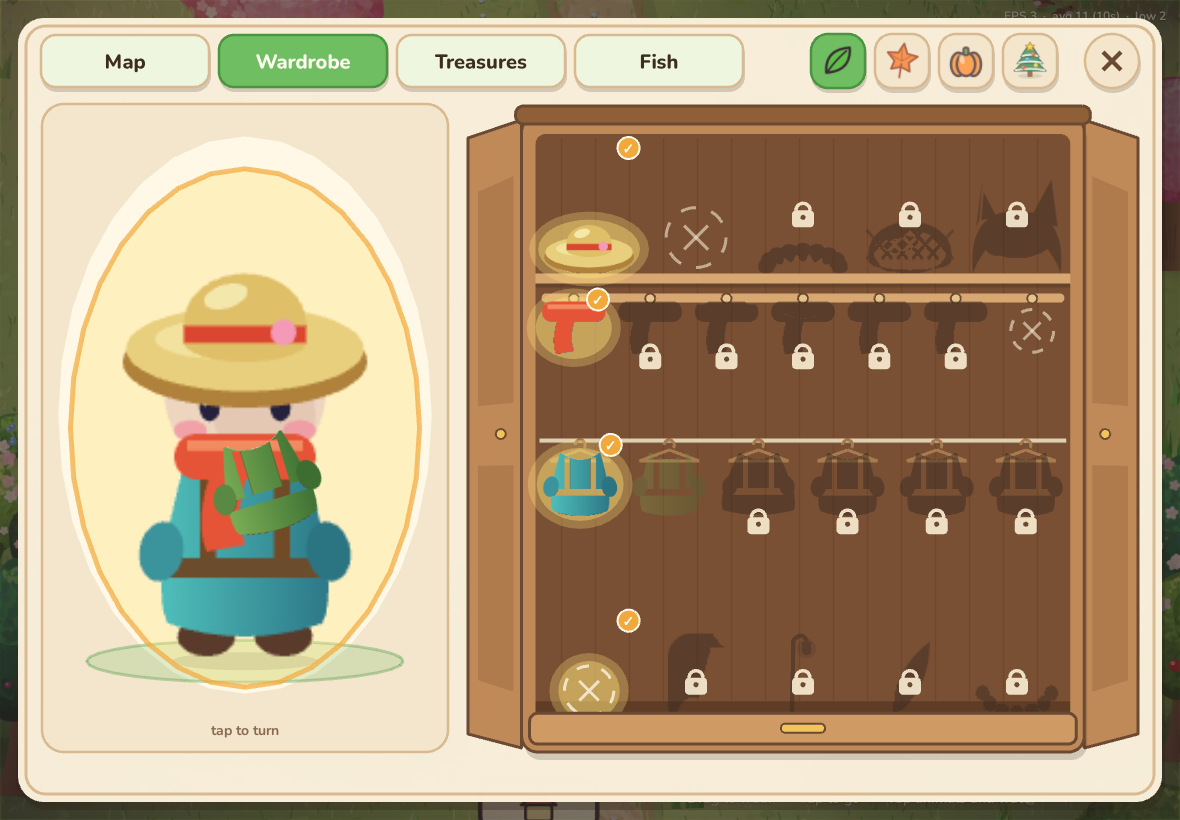
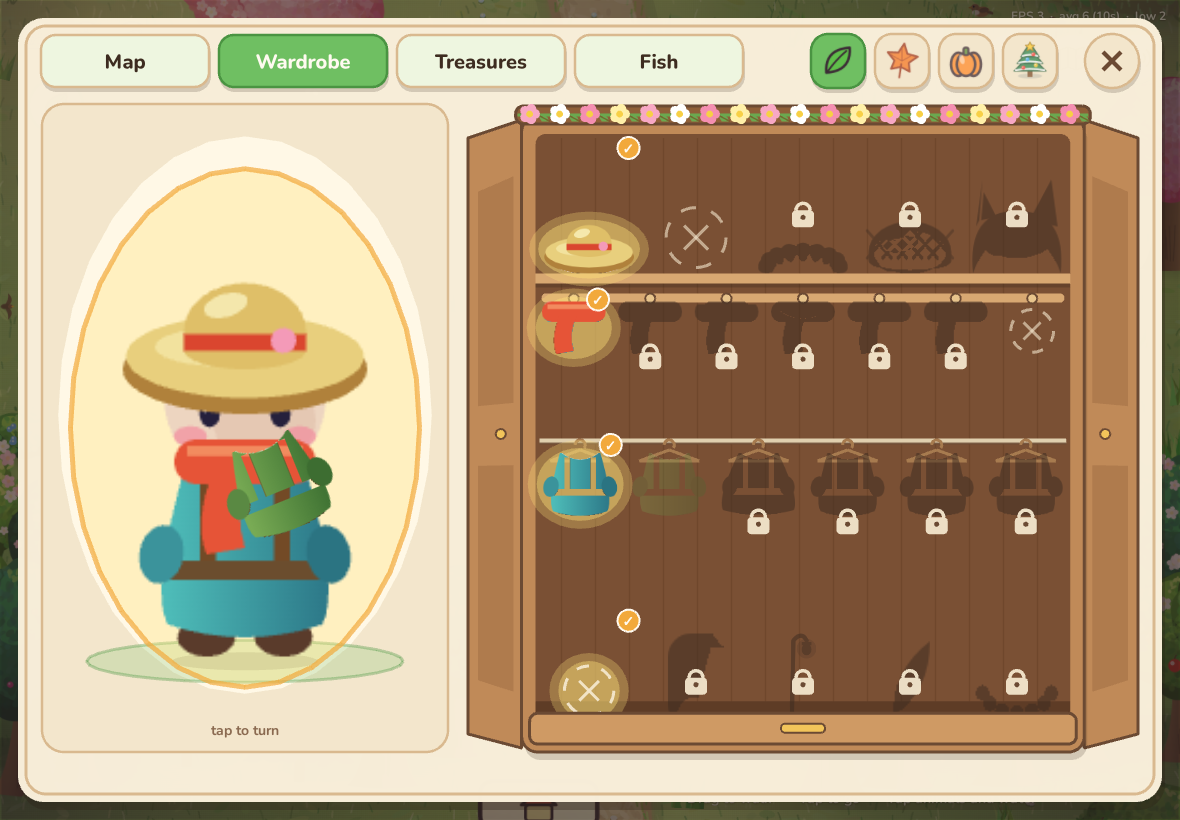
Wardrobe slice 4: new-item glow + seasonal wardrobe decorations, What's new

diff --git a/src/scenes/Menu.ts b/src/scenes/Menu.ts
@@ -18,6 +18,8 @@ const FONT = 'Nunito';
 export type Tab = 'map' | 'wardrobe' | 'treasures' | 'fish';
 const TABS: [Tab, string][] = [['map', 'Map'], ['wardrobe', 'Wardrobe'], ['treasures', 'Treasures'], ['fish', 'Fish']];
 
+const iw0 = (ww: number) => ww - 28;
+
 export class MenuScene extends Phaser.Scene {
   root!: Phaser.GameObjects.Container;
   content!: Phaser.GameObjects.Container;
@@ -39,6 +41,10 @@ export class MenuScene extends Phaser.Scene {
   private heroBase = 1;
   /** Last reaction played, for tests: 'hat' | 'scarf' | 'outfit' | 'extras' | 'off'. */
   lastReaction = '';
+  /** 9.36 slice 4: items unlocked since your last look in the wardrobe (they glow "new" this visit). */
+  newIds: Set<string> | null = null;
+  /** The theme the wardrobe was last dressed for (for tests). */
+  wardrobeTheme = '';
   private reactChain: Phaser.Tweens.TweenChain | null = null;
   playerDot: Phaser.GameObjects.Graphics | null = null;
   mapGeom = { x: 0, y: 0, s: 1 };
@@ -80,6 +86,7 @@ export class MenuScene extends Phaser.Scene {
   close() {
     if (!this.open) return;
     this.open = false;
+    this.newIds = null;
     sfx.blip();
     this.tweens.add({ targets: this.root, alpha: 0, duration: 160, onComplete: () => { this.root.setVisible(false); this.root.removeAll(true); } });
     // Release on a later frame so the closing tap doesn't reach the world.
@@ -102,6 +109,7 @@ export class MenuScene extends Phaser.Scene {
     this.rects = {};
     this.root.removeAll(true);
     this.cancelDrag();
+    if (this.tab !== 'wardrobe') this.newIds = null;
     this.heroImg = null; this.playerDot = null; this.hintText = null; this.stageGlow = null;
     this.w = this.scale.width / DPR; this.h = this.scale.height / DPR;
     const si = safeInsets();
@@ -246,6 +254,14 @@ export class MenuScene extends Phaser.Scene {
    *  hats on the shelf, scarves on hooks, outfits on hangers, extras in the drawer. Tap an item to wear it. */
   renderWardrobe(a: { x: number; y: number; w: number; h: number }) {
     buildWardrobeItems(this, 'wardrobe-items');
+    if (!this.newIds) {
+      // Anything unlocked since last time is "new" for this visit; first visit ever: nothing is new.
+      const unlocked = COSMETICS.filter((c) => isUnlocked(c)).map((c) => c.id);
+      const seen = save.seenWardrobe;
+      this.newIds = new Set(seen ? unlocked.filter((id) => !seen.includes(id)) : []);
+      save.seenWardrobe = unlocked;
+      persist();
+    }
     const narrow = a.w < 860;
     const ph = a.h - 30;
     const pw = Math.round(a.w * (narrow ? 0.34 : 0.37));
@@ -316,6 +332,7 @@ export class MenuScene extends Phaser.Scene {
     g.lineStyle(1.5, 0x6a4329, 0.7);
     for (let px = ix + 26; px < ix + iw - 10; px += 34) g.lineBetween(px, iy + 4, px, iy + ih - 4);
     this.content.add(g);
+    this.dressWardrobe(wx, wy, ww, ix, iy);
 
     type Row = { slot: string; list: Cosmetic[]; h: number };
     const rows: Row[] = [
@@ -363,6 +380,7 @@ export class MenuScene extends Phaser.Scene {
 
   /** Put it on (or, for the on/off extras, toggle it), save, and let the hero show it off. */
   private wear(c: Cosmetic) {
+    this.newIds?.delete(c.id);
     equip(c, save.look);
     persist();
     sfx.pickup();
@@ -499,6 +517,67 @@ export class MenuScene extends Phaser.Scene {
     this.itemImgs = {};
   }
 
+  /** Seasonal touches on the wardrobe for the active theme. */
+  private dressWardrobe(wx: number, wy: number, ww: number, ix: number, iy: number) {
+    const t = theme.id; this.wardrobeTheme = t;
+    const g = this.add.graphics();
+    const LINE = 0x6b4a33;
+    const flower = (x: number, y: number, r: number, c: number) => {
+      g.fillStyle(c, 1); for (let k = 0; k < 5; k++) { const a = (k / 5) * Math.PI * 2; g.fillCircle(x + Math.cos(a) * r * 0.6, y + Math.sin(a) * r * 0.6, r * 0.55); }
+      g.fillStyle(0xf7d046, 1); g.fillCircle(x, y, r * 0.38);
+    };
+    const leaf = (x: number, y: number, r: number, c: number, rot: number) => {
+      const ca = Math.cos(rot), sa = Math.sin(rot), P = (u: number, v: number) => [x + u * ca - v * sa, y + u * sa + v * ca] as const;
+      const [ax, ay] = P(-r, 0), [bx, by] = P(0, -r * 0.55), [cx2, cy2] = P(r, 0), [dx, dy] = P(0, r * 0.55);
+      g.fillStyle(c, 1); g.fillTriangle(ax, ay, bx, by, cx2, cy2); g.fillTriangle(ax, ay, dx, dy, cx2, cy2);
+      g.lineStyle(1.5, 0x7a3b1c, 0.6); g.lineBetween(ax, ay, cx2, cy2);
+    };
+    if (t === 'spring') {
+      // A flower garland along the crown.
+      g.lineStyle(3, 0x6aa84f, 1); g.lineBetween(wx - 4, wy - 1, wx + ww + 4, wy - 1);
+      const cols = [0xf7a8c4, 0xffffff, 0xf48fb1, 0xfff0a8];
+      let i = 0; for (let x = wx + 8; x < wx + ww - 4; x += 30, i++) { leaf(x + 14, wy + 2, 7, 0x6aa84f, 0.5); flower(x, wy - 2, 9, cols[i % cols.length]); }
+    } else if (t === 'fall') {
+      const cols = [0xe0701e, 0xc8452b, 0xe8b13a, 0xa8551e];
+      let i = 0; for (let x = wx + 6; x < wx + ww; x += 22, i++) leaf(x, wy - 2 + (i % 2) * 4, 11, cols[i % cols.length], (i % 3 - 1) * 0.6);
+      // Two leaves drifting down the doors.
+      leaf(wx - 22, wy + 120, 10, 0xe0701e, 0.9); leaf(wx + ww + 24, wy + 220, 10, 0xc8452b, -0.7);
+      g.fillStyle(0x8f5f38, 1); g.fillEllipse(wx + 40, wy - 16, 16, 18); g.fillStyle(0x5e3c26, 1); g.fillEllipse(wx + 40, wy - 23, 20, 9);
+    } else if (t === 'halloween') {
+      // A cobweb in the corner and a pumpkin on top.
+      const cx = ix + 2, cy = iy + 2, R = 64;
+      g.lineStyle(1.5, 0xf3ecdf, 0.65);
+      for (let k = 0; k <= 4; k++) { const a = (k / 4) * (Math.PI / 2); g.lineBetween(cx, cy, cx + Math.cos(a) * R, cy + Math.sin(a) * R); }
+      for (const rr of [18, 34, 50]) { g.beginPath(); for (let k = 0; k <= 4; k++) { const a = (k / 4) * (Math.PI / 2); const px = cx + Math.cos(a) * rr, py = cy + Math.sin(a) * rr; if (k) g.lineTo(px, py); else g.moveTo(px, py); } g.strokePath(); }
+      const px = wx + 84, py = wy - 14;
+      g.fillStyle(0xe8771e, 1); g.fillEllipse(px - 8, py, 18, 22); g.fillEllipse(px + 8, py, 18, 22); g.fillEllipse(px, py, 20, 24);
+      g.lineStyle(2, LINE, 1); g.strokeEllipse(px, py, 34, 24);
+      g.fillStyle(0x2a1d14, 1); g.fillTriangle(px - 9, py - 3, px - 3, py - 3, px - 6, py - 8); g.fillTriangle(px + 3, py - 3, px + 9, py - 3, px + 6, py - 8);
+      g.fillTriangle(px - 8, py + 3, px + 8, py + 3, px, py + 8);
+      g.fillStyle(0x4f7a2a, 1); g.fillRect(px - 2, py - 16, 4, 6);
+      // A little bat on the left of the crown.
+      const bx = wx + 34, by = wy - 18;
+      g.fillStyle(0x3b2b4f, 1); g.fillEllipse(bx, by, 12, 10);
+      g.fillTriangle(bx - 4, by, bx - 20, by - 7, bx - 14, by + 5); g.fillTriangle(bx + 4, by, bx + 20, by - 7, bx + 14, by + 5);
+    } else if (t === 'christmas') {
+      // Snow on the crown, a drooping string of lights, and a star on top.
+      g.fillStyle(0xffffff, 1); g.fillRoundedRect(wx - 8, wy - 16, ww + 16, 10, 5);
+      for (let x = wx + 10; x < wx + ww - 6; x += 38) g.fillEllipse(x, wy - 6, 14, 10);
+      const n = Math.max(4, Math.floor(ww / 70)), cols = [0xe53935, 0xfbc02d, 0x43a047, 0x1e88e5];
+      g.lineStyle(2, 0x2e5e2e, 1);
+      for (let k = 0; k < n; k++) {
+        const x0 = ix + (iw0(ww) * k) / n, x1 = ix + (iw0(ww) * (k + 1)) / n;
+        g.beginPath(); for (let u = 0; u <= 8; u++) { const x = x0 + ((x1 - x0) * u) / 8, y = iy + 4 + Math.sin((u / 8) * Math.PI) * 14; if (u) g.lineTo(x, y); else g.moveTo(x, y); } g.strokePath();
+        for (let u = 1; u < 4; u++) { const x = x0 + ((x1 - x0) * u) / 4, y = iy + 4 + Math.sin((u / 4) * Math.PI) * 14; g.fillStyle(cols[(k * 3 + u) % 4], 1); g.fillEllipse(x, y + 5, 7, 10); }
+      }
+      const sx = wx + ww / 2, sy = wy - 24;
+      g.fillStyle(0xf7d046, 1); g.lineStyle(2, 0xc9822a, 1); g.beginPath();
+      for (let k = 0; k < 10; k++) { const a = -Math.PI / 2 + (k * Math.PI) / 5, rr = k % 2 ? 6 : 14; const x = sx + Math.cos(a) * rr, y = sy + Math.sin(a) * rr; if (k) g.lineTo(x, y); else g.moveTo(x, y); }
+      g.closePath(); g.fillPath(); g.strokePath();
+    }
+    this.content.add(g);
+  }
+
   /** One item in its place in the wardrobe; the whole cell is the tap target. */
   private wardrobeItem(c: Cosmetic, slot: string, x: number, y: number, w: number, h: number) {
     const unlocked = isUnlocked(c);
@@ -516,6 +595,16 @@ export class MenuScene extends Phaser.Scene {
       glow.fillStyle(0xffe27a, 0.28); glow.fillEllipse(gx, gy, gw + 30, gh + 26);
       glow.fillStyle(0xffe27a, 0.4); glow.fillEllipse(gx, gy, gw + 12, gh + 10);
     };
+    // Newly unlocked: a gentle pulsing glow and a little "new" tag (this visit only).
+    if (unlocked && !on && this.newIds?.has(c.id)) {
+      const ng = this.add.graphics();
+      ng.fillStyle(0xfff2a8, 0.5); ng.fillEllipse(cx, originY ? anchorY - maxH * 0.42 : anchorY + maxH * 0.42, w * 0.95, maxH * 0.95);
+      this.content.add(ng);
+      this.tweens.add({ targets: ng, alpha: { from: 0.35, to: 1 }, duration: 700, yoyo: true, repeat: -1, ease: 'Sine.easeInOut' });
+      const tg = this.add.graphics();
+      tg.fillStyle(0xe85d3a, 1); tg.fillRoundedRect(x + 4, y + 4, 40, 18, 9);
+      this.content.add([tg, this.text(x + 24, y + 13, 'new', 12, '#fffaf0', 900).setOrigin(0.5)]);
+    }
     let img: Phaser.GameObjects.Image | null = null;
     if (isNoneItem(c)) {
       // "Take it off": a dashed empty spot with a little cross.

diff --git a/tests/wardrobe.spec.ts b/tests/wardrobe.spec.ts
@@ -73,11 +73,11 @@ test('wardrobe: big hero, illustrated wardrobe, tap to wear', async ({ playwrigh
       await tapRect(page, await rect(page, 'hat:straw'));
       await expect.poll(async () => (await look(page)).hat, { timeout: 20_000 }).toBe('straw');
       expect(await reaction(page)).toBe('hat');
-      await page.waitForTimeout(1500);
-      // After the reaction the hero settles back to normal.
-      const sq = await page.evaluate(() => (window as any).__menu.heroSquash);
-      expect(Math.abs(sq.x - 1)).toBeLessThan(0.02);
-      expect(Math.abs(sq.y - 1)).toBeLessThan(0.02);
+      // After the reaction the hero settles back to normal (poll: tweens run slowly on a loaded box).
+      await expect.poll(async () => {
+        const sq = await page.evaluate(() => (window as any).__menu.heroSquash);
+        return Math.max(Math.abs(sq.x - 1), Math.abs(sq.y - 1));
+      }, { timeout: 15_000 }).toBeLessThan(0.02);
       expect(errors).toEqual([]);
     } finally { await page.close(); }
   } finally { await browser.close(); }
@@ -139,6 +139,65 @@ test('wardrobe: drag and drop dress-up', async ({ playwright: _pw }, info) => {
       // A plain tap still works.
       await tapRect(page, await rect(page, 'hat:straw'));
       await expect.poll(async () => (await look(page)).hat, { timeout: 20_000 }).toBe('straw');
+      expect(errors).toEqual([]);
+    } finally { await page.close(); }
+  } finally { await browser.close(); }
+});
+
+// 9.36 slice 4: newly unlocked items glow "new" (this visit only), and the wardrobe dresses up per theme.
+test('wardrobe: new glow + themed wardrobe', async ({ playwright: _pw }, info) => {
+  test.setTimeout(400_000);
+  const use = info.project.use as any;
+  const browser = await chromium.launch(use.launchOptions);
+  try {
+    const ctx = await browser.newContext({ viewport: use.viewport, deviceScaleFactor: use.deviceScaleFactor, hasTouch: true, userAgent: use.userAgent });
+    const page = await ctx.newPage();
+    const errors: string[] = [];
+    page.on('pageerror', (e) => errors.push(e.message));
+    try {
+      await page.goto(FILE);
+      await page.evaluate(() => {
+        localStorage.clear();
+        const free = ['hat:straw', 'hat:none', 'scarf:red', 'scarf:none', 'outfit:teal', 'outfit:moss', 'back:none'];
+        localStorage.setItem('cozy.save.v2', JSON.stringify({ v: 2, theme: 'spring', puzzles: {}, treasures: ['acorn_cap'], fish: {}, minor: {}, visited: ['glade'], chests: [], snacks: 0, tips: [], seenWardrobe: free }));
+      });
+      await page.reload();
+      await page.waitForFunction(() => (window as any).__cozy?.ready, null, { timeout: 180_000 });
+      await page.waitForTimeout(1000);
+      await page.evaluate(() => { try { (window as any).__cozy.dismiss?.(); } catch { /* */ } });
+      const openWardrobe = async () => {
+        await page.evaluate(() => (window as any).__menu.show('wardrobe'));
+        await expect.poll(() => page.evaluate(() => (window as any).__menu.open), { timeout: 30_000 }).toBe(true);
+        await page.waitForTimeout(1000);
+      };
+      const closeMenu = async () => {
+        await page.evaluate(() => (window as any).__menu.close());
+        await expect.poll(() => page.evaluate(() => (window as any).__menu.open), { timeout: 30_000 }).toBe(false);
+        await page.waitForTimeout(600);
+      };
+      const newIds = () => page.evaluate(() => [...((window as any).__menu.newIds ?? [])]);
+      await openWardrobe();
+      expect(await newIds()).toEqual(['hat:acorn']);
+      await page.screenshot({ path: `${SHOTS}/wardrobe-new.png` });
+      // Still "new" after a re-render within the same visit, until you wear it.
+      await tapRect(page, await rect(page, 'outfit:moss'));
+      await expect.poll(async () => (await look(page)).outfit, { timeout: 20_000 }).toBe('moss');
+      expect(await newIds()).toEqual(['hat:acorn']);
+      await tapRect(page, await rect(page, 'hat:acorn'));
+      await expect.poll(async () => (await look(page)).hat, { timeout: 20_000 }).toBe('acorn');
+      expect(await newIds()).toEqual([]);
+      await closeMenu();
+      await openWardrobe();
+      expect(await newIds()).toEqual([]);
+      // Each theme dresses the wardrobe.
+      for (const t of ['fall', 'halloween', 'christmas', 'spring']) {
+        await closeMenu();
+        await page.evaluate((t) => (window as any).__cozy.setTheme(t), t);
+        await page.waitForTimeout(1500);
+        await openWardrobe();
+        expect(await page.evaluate(() => (window as any).__menu.wardrobeTheme)).toBe(t);
+        if (t !== 'spring') await page.screenshot({ path: `${SHOTS}/wardrobe-${t}.png` });
+      }
       expect(errors).toEqual([]);
     } finally { await page.close(); }
   } finally { await browser.close(); }

diff --git a/src/whatsnew.ts b/src/whatsnew.ts
@@ -3,12 +3,12 @@
 // Keep each bullet short and simple: kids read these.
 // icon: 'wood' | 'fruit' | 'berry' | 'star' | 'heart' (a little picture beside the line).
 
-export const VERSION = '2026-10-23-wardrobereact';
+export const VERSION = '2026-10-23-wardrobe4';
 
 export type WhatsNewItem = { icon: 'wood' | 'fruit' | 'berry' | 'star' | 'heart'; text: string };
 
 export const ITEMS: WhatsNewItem[] = [
-  { icon: 'star', text: 'A brand-new wardrobe! Open the menu and tap Wardrobe. Drag a hat, scarf or outfit onto your hero to try it on, and watch them hop, wiggle and twirl!' },
+  { icon: 'star', text: 'A brand-new wardrobe! Open the menu and tap Wardrobe. Drag a hat, scarf or outfit onto your hero to try it on, and watch them hop, wiggle and twirl! New finds glow, and the wardrobe dresses up for each season.' },
   { icon: 'fruit', text: 'Fish from your boat! Row out on the water, then tap your boat to cast a line. Each season paints the boat a new color.' },
   { icon: 'heart', text: 'Row, row, row your boat! Tap the little red boat at the pond or the lake to climb in. Tap the shore to hop out.' },
   { icon: 'star', text: 'Fly anywhere! While riding your mount, tap Home, Village, Pond and more to zoom straight there.' },

diff --git a/src/save.ts b/src/save.ts
@@ -36,6 +36,8 @@ export type SaveData = {
   tips: string[];
   /** Wilderness: trips taken, monsters poofed, rare finds banked at home. */
   wild: WildSave;
+  /** 9.36: wardrobe items you've already seen unlocked (newer ones get a "new" glow). */
+  seenWardrobe?: string[];
 };
 export type WildSave = { visits: number; poofs: number; loot: Record<string, number> };
 
